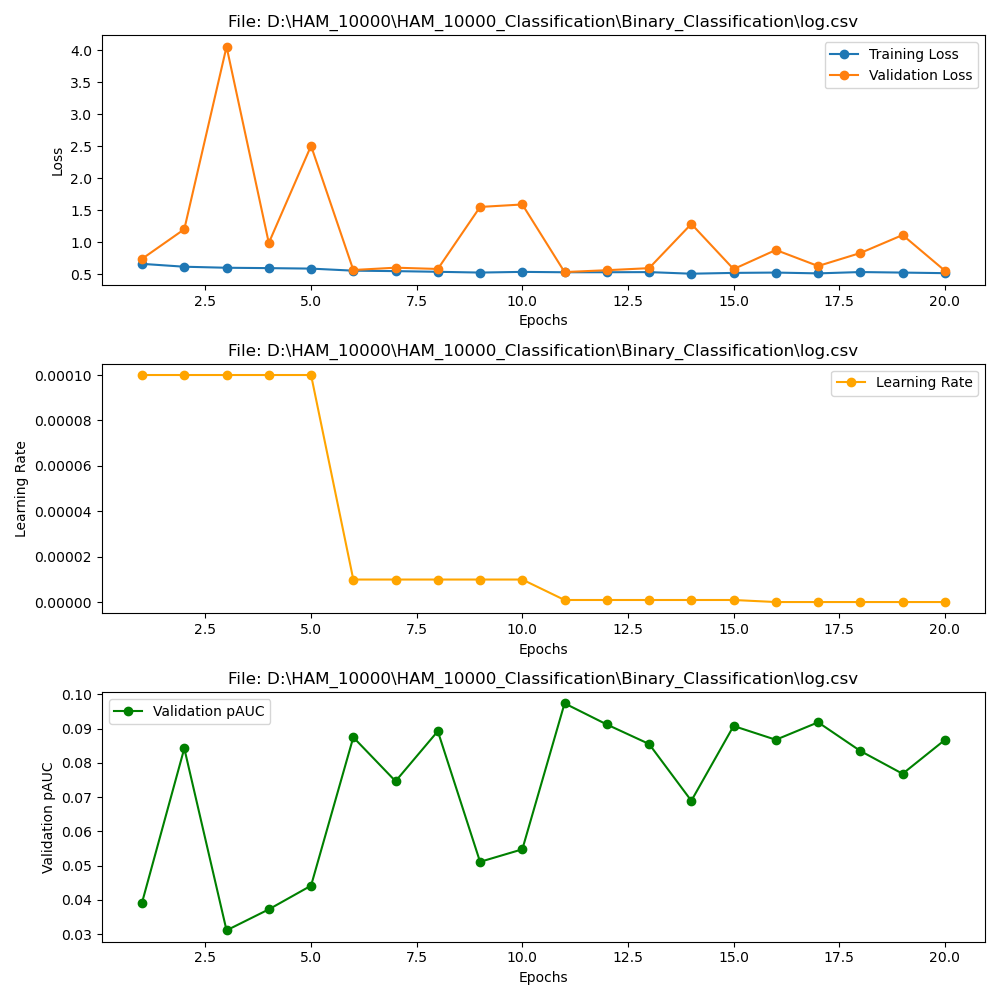
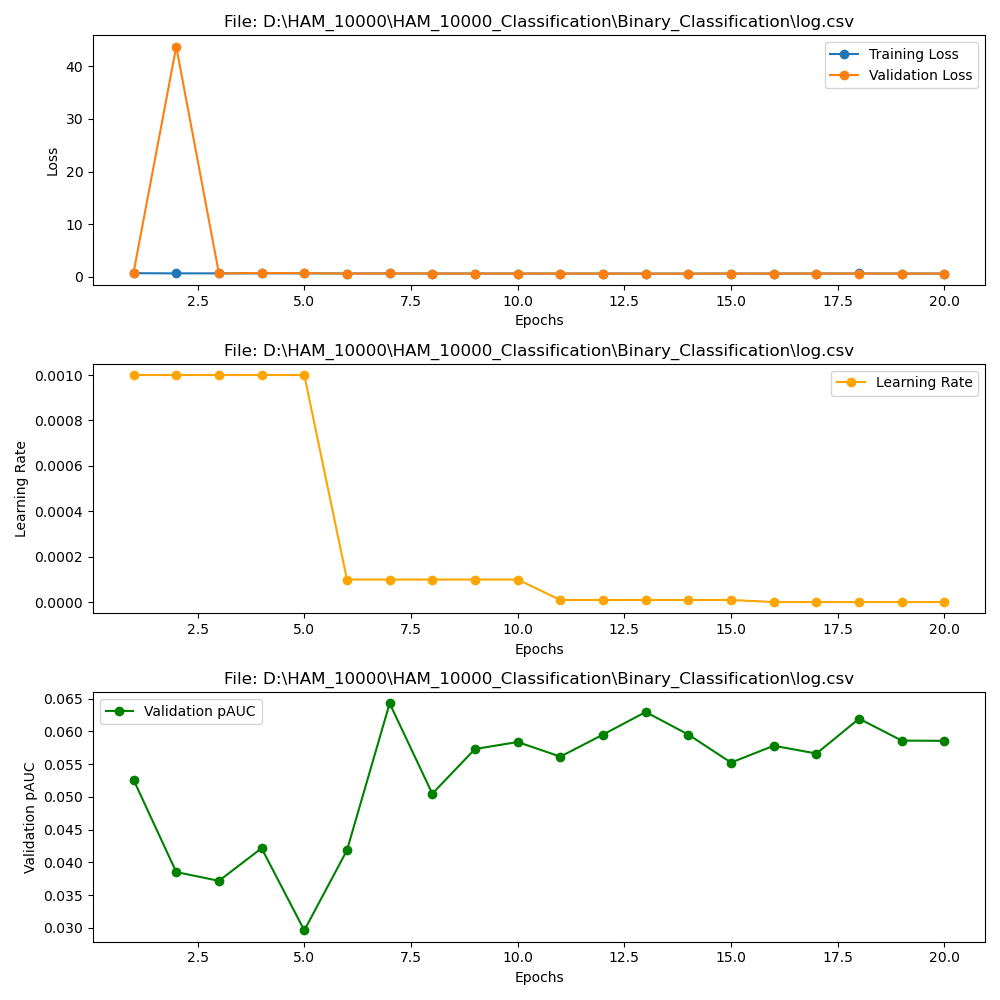
July 12, 2024

diff --git a/Binary_Classification/utils.py b/Binary_Classification/utils.py
@@ -352,7 +352,7 @@ def plot_metrics_from_files(file_paths, save_path=None):
     
     '''
     num_files = len(file_paths)
-    rows = 3  # Three rows for three types of plots
+    rows = 4  # Four rows for four types of plots
     cols = num_files  # One column per file
 
     fig, axes = plt.subplots(rows, cols, figsize=(10 * cols, 10))  # Create a grid of subplots
@@ -370,6 +370,10 @@ def plot_metrics_from_files(file_paths, save_path=None):
         train_loss = df['Training Loss']
         valid_loss = df['Validation Loss']
         valid_pAUC = df['Validation pAUC']
+        valid_acc = df['Validation Accuracy']
+        valid_prec = df['Validation Precision']
+        valid_recall = df['Validation Recall']
+        valid_f1score = df['Validation F1 Score']
 
         # Plot training loss and validation loss
         axes[0, i].plot(epochs, train_loss, label='Training Loss', marker='o')
@@ -392,6 +396,16 @@ def plot_metrics_from_files(file_paths, save_path=None):
         axes[2, i].set_xlabel('Epochs')
         axes[2, i].set_ylabel('Validation pAUC')
         axes[2, i].legend()
+
+        # Plot accuracy, precision, recall, f1-score
+        axes[3, i].plot(epochs, valid_acc, label = "Validation Accuracy", marker = 'o')
+        axes[3, i].plot(epochs, valid_prec, label = "Validation Precision", marker = 'o')
+        axes[3, i].plot(epochs, valid_recall, label = "Validation Recall", marker = 'o')
+        axes[3, i].plot(epochs, valid_f1score, label = "Validation F1 Score", marker = 'o')
+        axes[3, i].set_title(f'File: {file_path.split("/")[-1]}')
+        axes[3, i].set_xlabel('Epochs')
+        axes[3, i].set_ylabel('Validation Metrics')
+        axes[3, i].legend()
 
     plt.tight_layout()  # Adjust the layout to prevent overlap
 

diff --git a/Binary_Classification/train.py b/Binary_Classification/train.py
@@ -13,7 +13,7 @@ Constants
 '''
 DEVICE = 'cuda' if torch.cuda.is_available() else 'cpu'
 EPOCHS = 50
-LEARNING_RATE = 0.001
+LEARNING_RATE = 0.0001
 MIN_EPOCH_TRAIN = 15
 PATIENCE = 5
 EPSILON = 0.0005
